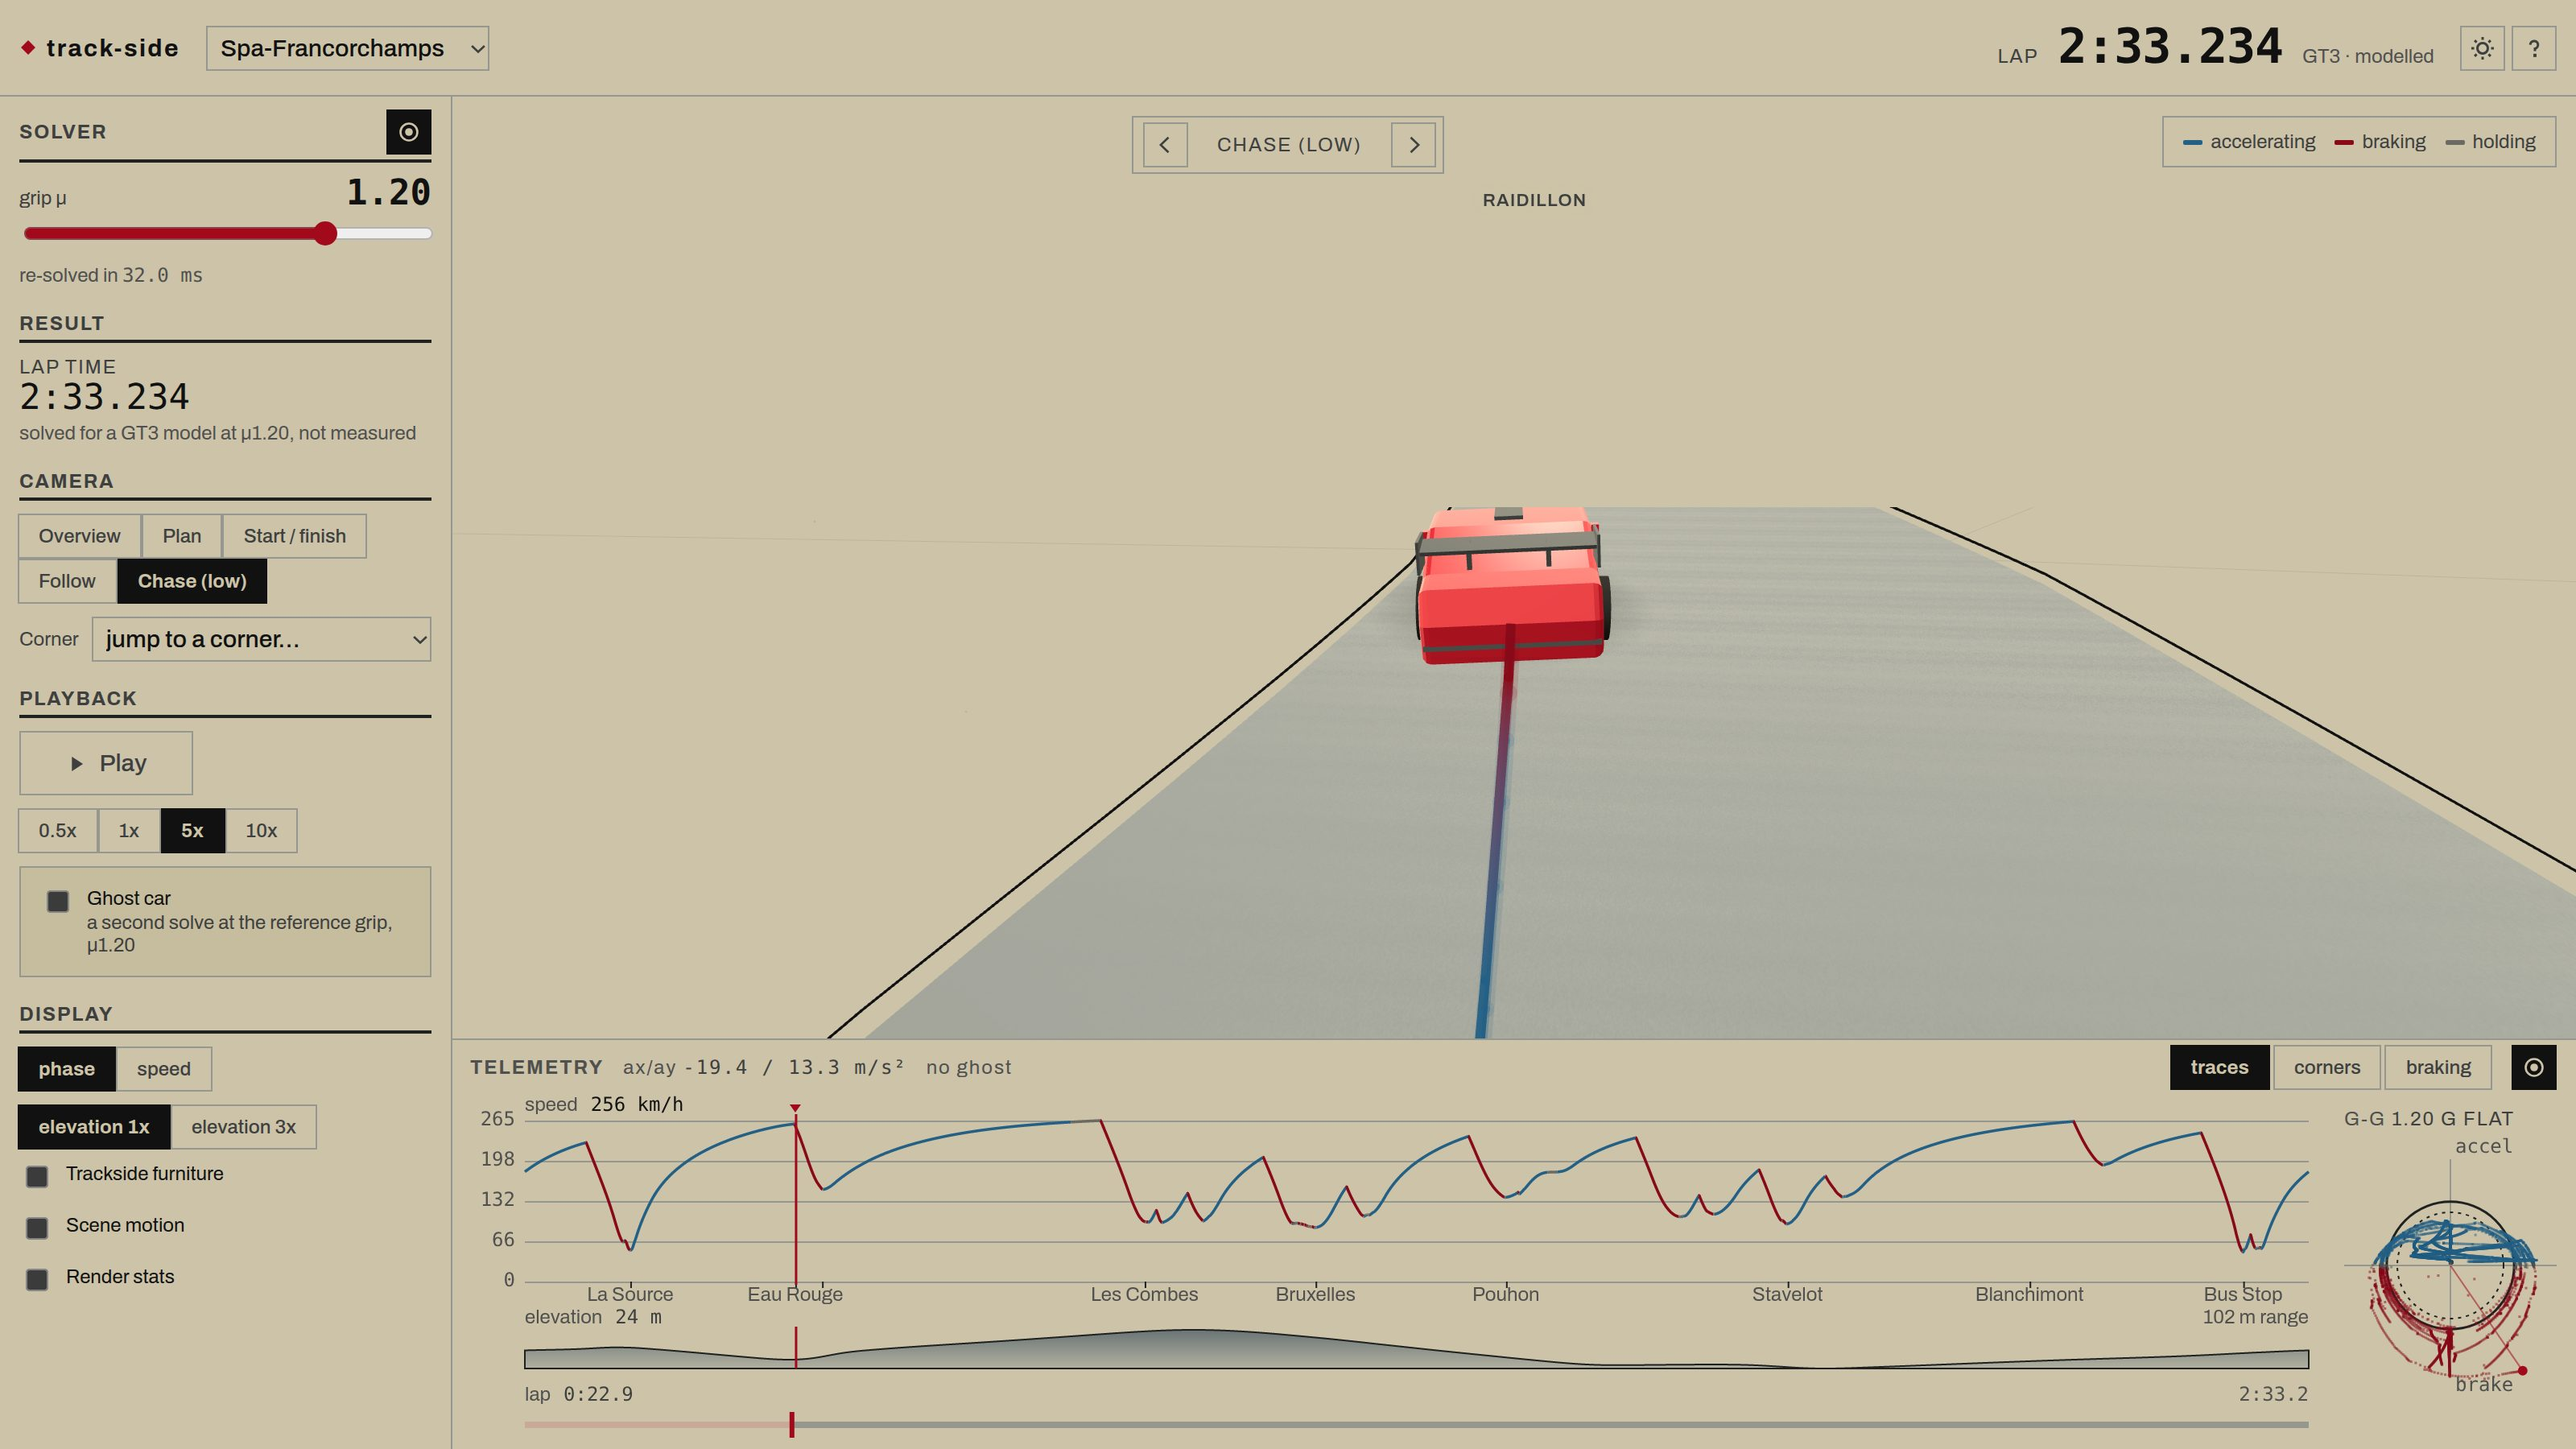
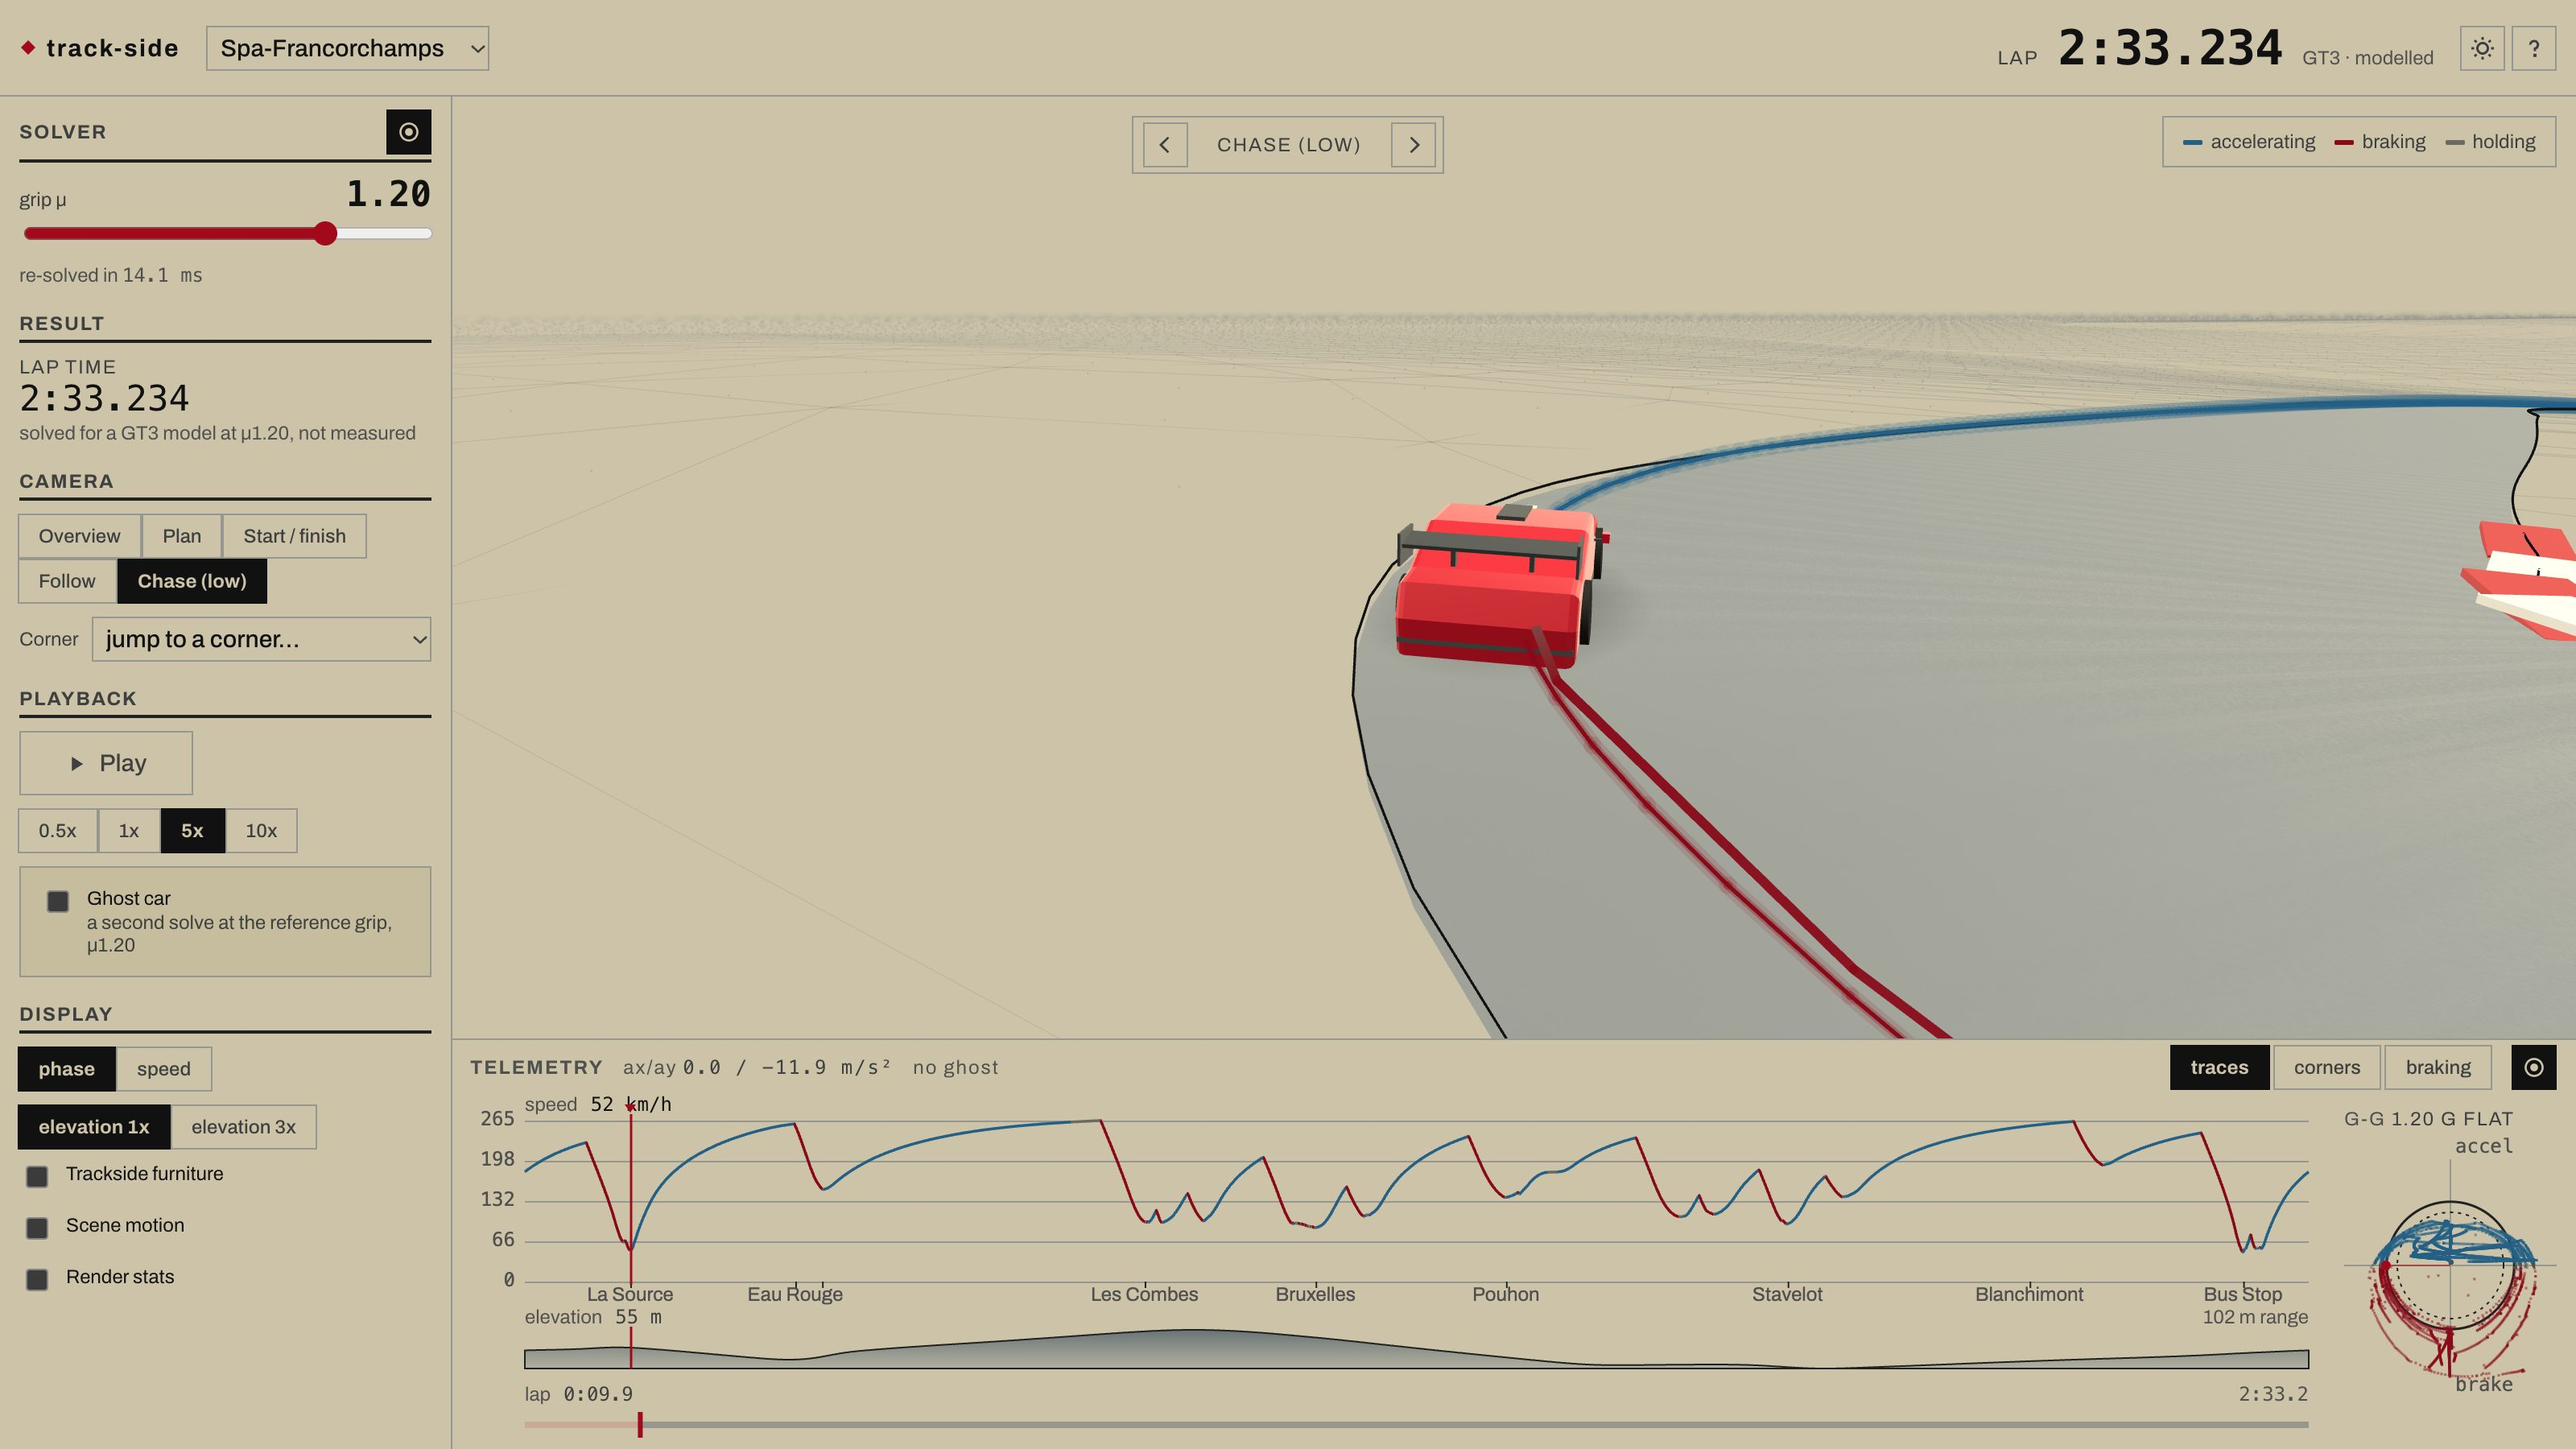
docs(readme): plan view for the hero, La Source for the chase frame
The hero was a raised three-quarter overview: correct, but roughly half the frame was empty sky
and no corner read by name. Swapped to the near-vertical plan view instead, so the whole lap reads
as a shape with every corner labelled on the line.

The panelled frame was the chase camera frozen on the flat approach to Eau Rouge -- little for a
skimming reader to catch onto. Reseeked to La Source instead, where the car is turned in and
braking with the red phase trace visible under it.

Regenerated through the same npm run shots harness as before; only the view and seek queries in
scripts/shots.mjs changed. 259 vitest pass, build clean.

diff --git a/README.md b/README.md
@@ -5,7 +5,7 @@ An ideal-racing-line optimiser for GT3 cars, on real circuit geometry, with an i
 
 **Live: <https://jooondam.github.io/track-side/>**
 
-![The Spa overview: the racing line coloured by phase, over the terrain field](docs/overview.jpg)
+![The full Spa lap from directly overhead, the racing line coloured by phase and every corner named](docs/overview.jpg)
 
 ## What it does
 
